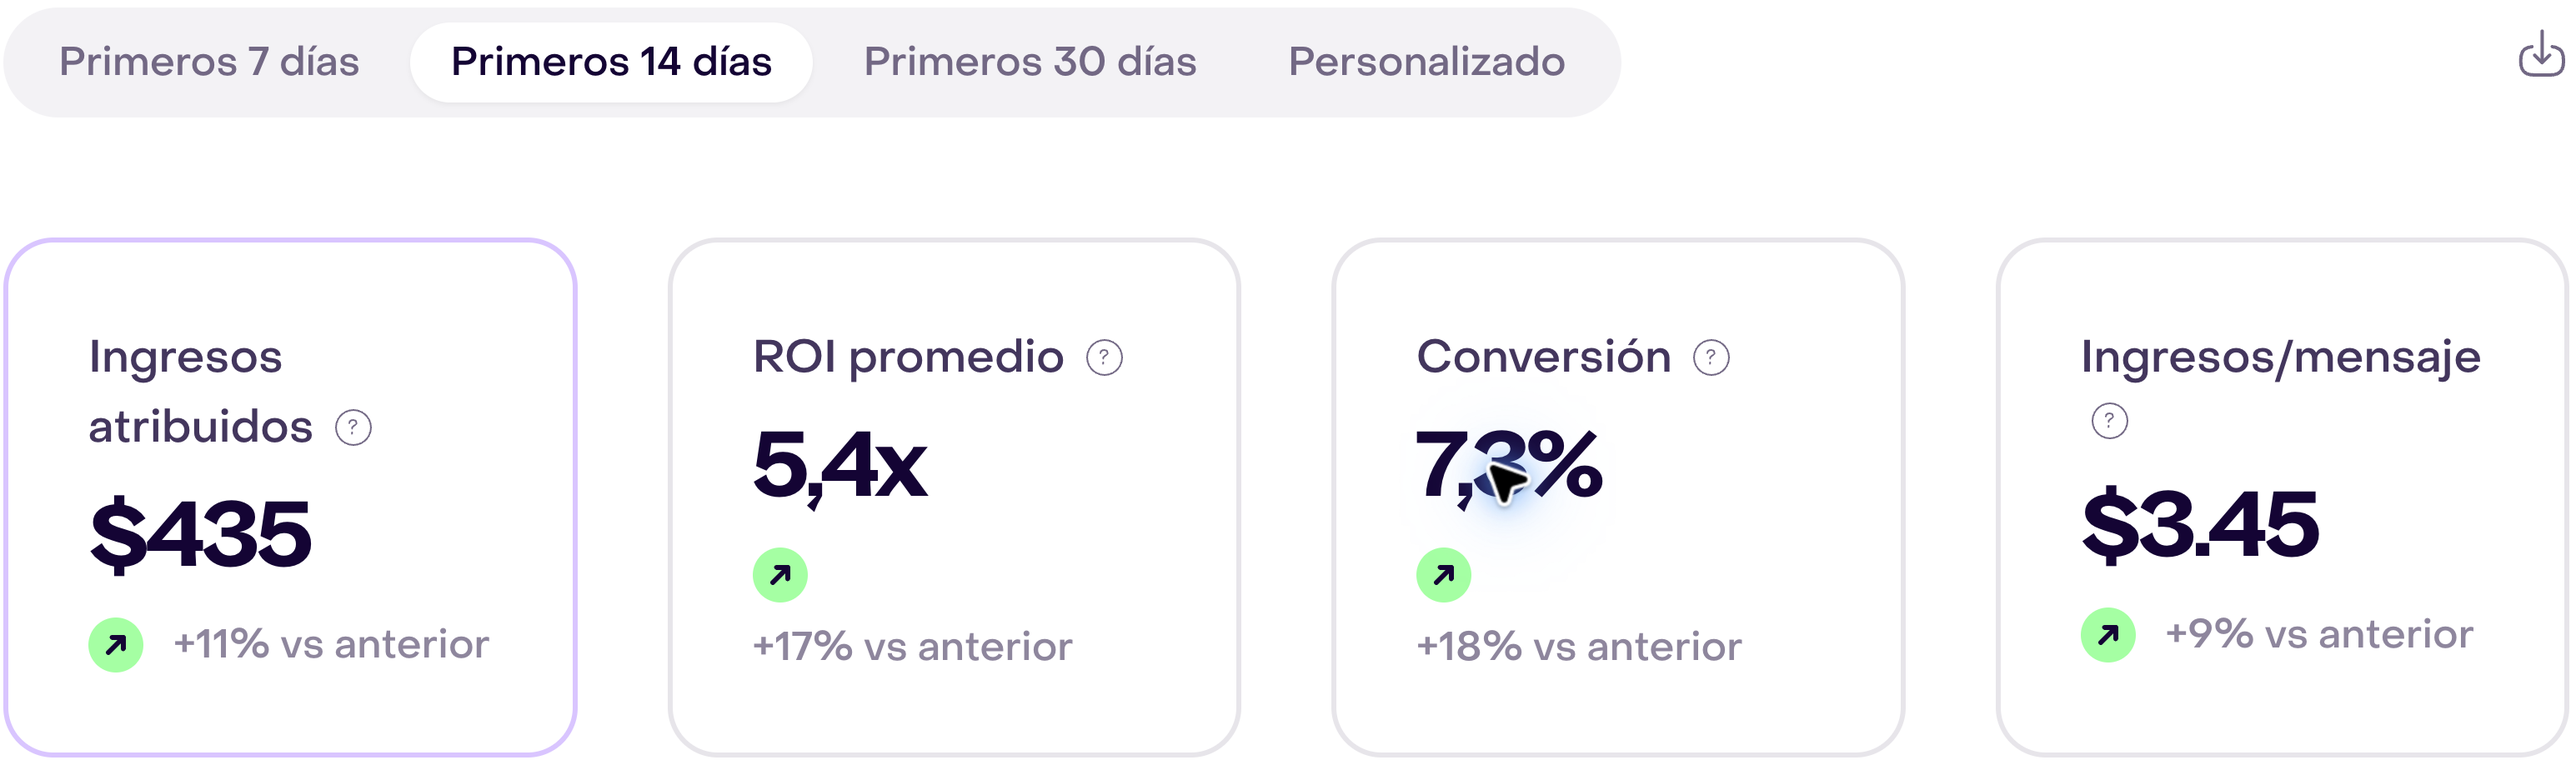
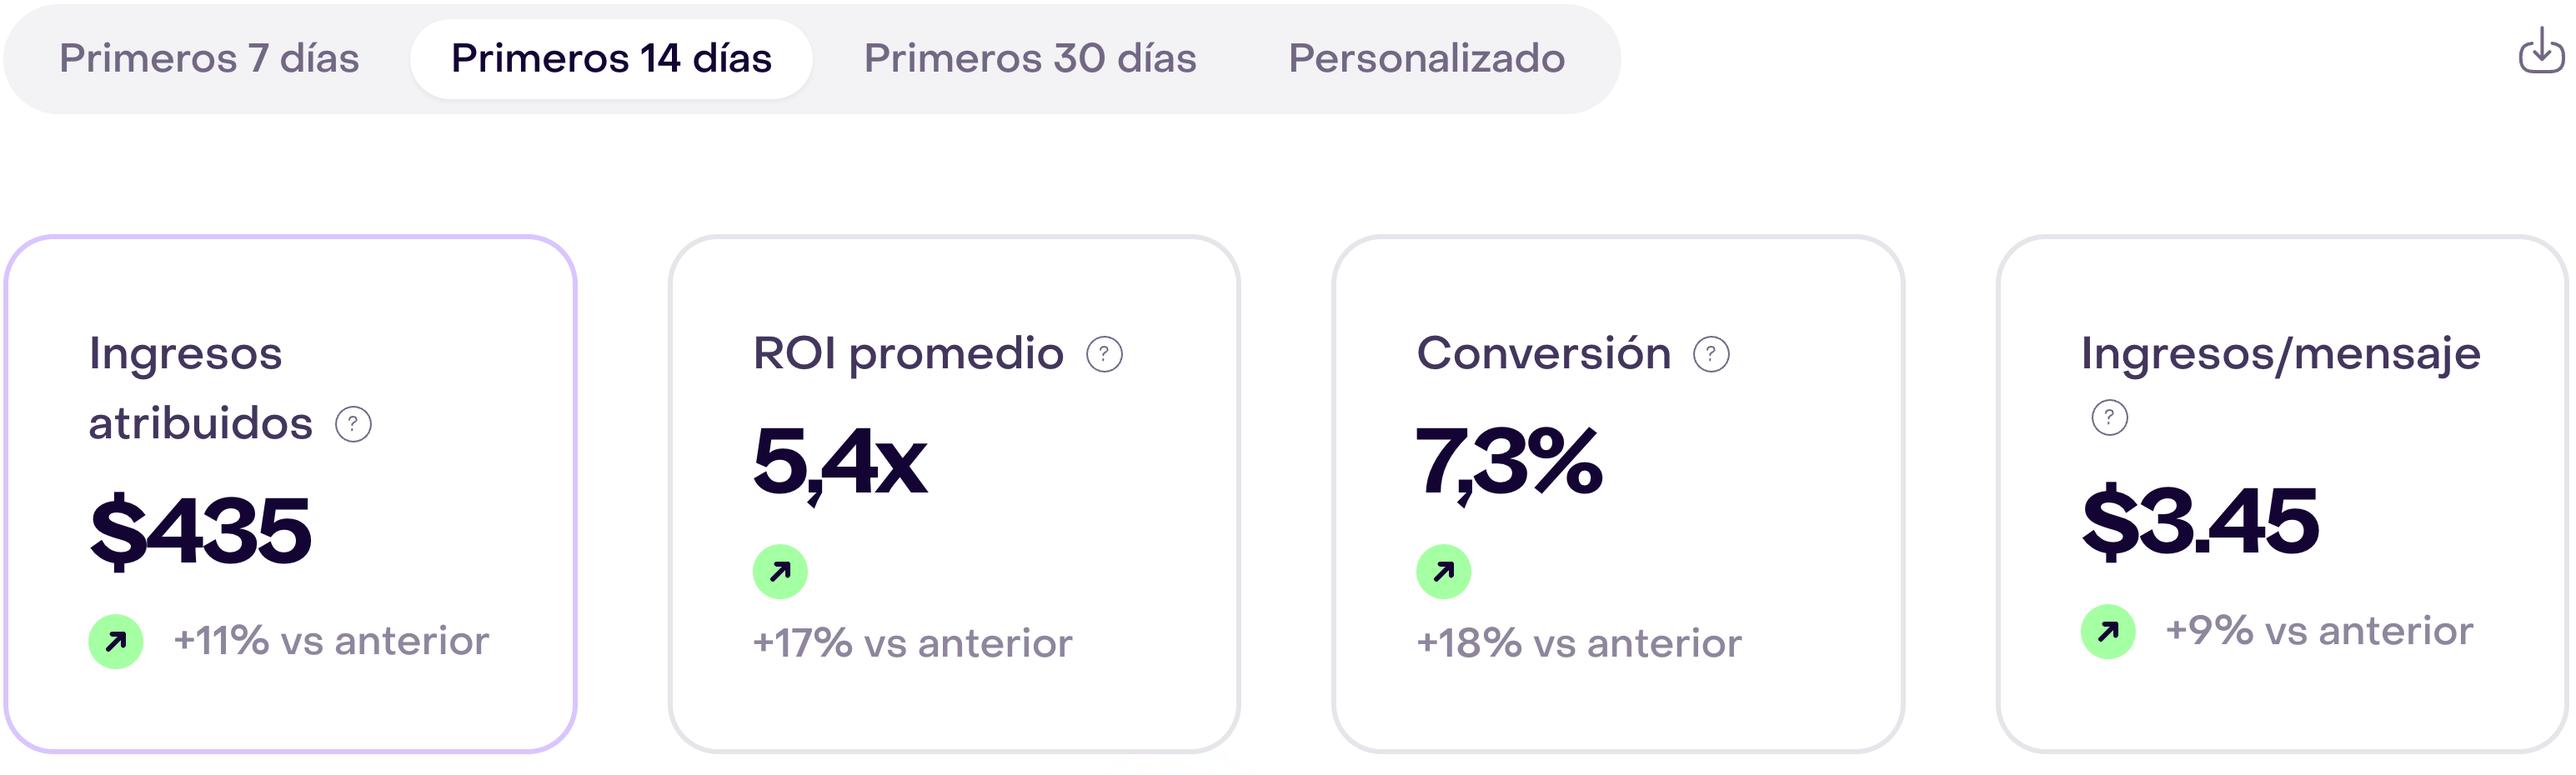
Remove pointer from campaign report screenshot

diff --git a/docs/editorial-work/capture-tools/hellotext_capture_editor.swift b/docs/editorial-work/capture-tools/hellotext_capture_editor.swift
@@ -21,7 +21,7 @@ enum CaptureError: Error, CustomStringConvertible {
 
 struct Options {
     var list = false
-    var hideCursor = false
+    var showCursor = false
     var windowID: UInt32?
     var title: String?
     var rect: CGRect?
@@ -41,7 +41,12 @@ func parseOptions() throws -> Options {
             continue
         }
         if arg == "--hide-cursor" {
-            result.hideCursor = true
+            result.showCursor = false
+            index += 1
+            continue
+        }
+        if arg == "--show-cursor" {
+            result.showCursor = true
             index += 1
             continue
         }
@@ -73,7 +78,7 @@ func parseOptions() throws -> Options {
     }
     if !result.list {
         guard result.windowID != nil, result.title != nil, result.rect != nil, result.output != nil else {
-            throw CaptureError.usage("Capture requires --window-id N --title EXACT_TITLE --rect x,y,w,h --output /absolute/path.png [--display-probe /absolute/path.png]")
+            throw CaptureError.usage("Capture requires --window-id N --title EXACT_TITLE --rect x,y,w,h --output /absolute/path.png [--display-probe /absolute/path.png] [--show-cursor]")
         }
     }
     return result
@@ -183,7 +188,7 @@ struct CaptureEditor {
         config.sourceRect = rect.offsetBy(dx: -display.frame.minX, dy: -display.frame.minY)
         config.width = pixelWidth
         config.height = pixelHeight
-        config.showsCursor = !options.hideCursor
+        config.showsCursor = options.showCursor
         config.includeChildWindows = false
         config.ignoreShadowsDisplay = true
         config.colorSpaceName = CGColorSpace.displayP3

diff --git a/docs/editorial-work/campaign-reporting.md b/docs/editorial-work/campaign-reporting.md
@@ -42,10 +42,20 @@ The local capture source is ready: an isolated PostgreSQL database named `hellot
 
 Automatic approval review initially rejected opening a dedicated Chrome capture window because the standing “no new windows” instruction could include that temporary window. The user explicitly approved a temporary window for Spanish and English capture. The resulting window showed only the isolated demonstration campaign report and was closed after capture. No real contacts, campaigns, or messages were changed or sent.
 
-Four exact-window ScreenCaptureKit crops were recorded as untouched native Display P3 PNGs with provenance JSON under `captures/campaign-reporting/` and copied byte for byte to `images/analytics-reporting-attribution/campaign-reporting/`. Desktop variants show the period selector and all four summary cards: Spanish 3090 × 930 pixels and English 3090 × 1050 pixels. Mobile variants show the selector, first card, and carousel arrow: 754 × 560 pixels in each language. All are native 2× captures. The helper's `--hide-cursor` option kept the pointer from obscuring values. Every crop was visually inspected for locale, legibility, demonstration values, and absence of contacts or private data. The source and static asset hashes match for each variant. The original captures were not resampled or color-profile converted.
+Four exact-window ScreenCaptureKit crops were recorded as untouched native Display P3 PNGs with provenance JSON under `captures/campaign-reporting/` and copied byte for byte to `images/analytics-reporting-attribution/campaign-reporting/`. Desktop variants show the period selector and all four summary cards: Spanish 3090 × 930 pixels and English 3090 × 1050 pixels. Mobile variants show the selector, first card, and carousel arrow: 754 × 560 pixels in each language. All are native 2× captures. The helper used `--hide-cursor`, but a browser automation pointer was later found over the Spanish desktop Conversion value; the system cursor setting did not suppress that overlay. Every crop was inspected for locale, legibility, demonstration values, and absence of contacts or private data. The source and static asset hashes match for each variant. The original captures were not resampled or color-profile converted.
 
 One unlinked `<picture>` figure was inserted immediately after the reporting-period instruction in each language. Its desktop image is used at 1280px; the mobile source is used at 390px. The HTML caption and alternative text are localized. At desktop width the 3090px source displayed at 608.8 CSS pixels; at mobile width the 754px source displayed at 316 CSS pixels. Both exceed the required 2× density. The figure contains no anchor, button, or focusable open control.
 
 `PATH="/Users/pel/.rbenv/shims:$PATH" BUNDLE_PATH=vendor/bundle yarn build` passed again, including the Jekyll language builds and `script/verify_security_headers.rb`. The four built/site image copies matched the source files byte for byte. The Spanish and English pages were visually reviewed in the in-app browser at 1280px desktop and 390px mobile widths. Each showed the intended locale-specific screenshot in the expected section with readable labels, and neither page had horizontal overflow. The local Spanish preview at `http://127.0.0.1:8765/es/reportes-de-campa%C3%B1a.html` returned HTTP 200; the English preview is `http://127.0.0.1:8765/campaign-reporting.html`.
 
 The temporary Rails, Vite, and Redis processes and Chrome window were closed after verification. The isolated PostgreSQL demo database remains local; the Help preview at port 8765 remains running for review. The verifying local commit is recorded in `progress.csv`. No push, merge, deployment, or public verification occurred.
+
+## Pointer correction (2026-09-26)
+
[1 lines of base64/hex data omitted]
+
+The shared editorial screenshot guide now defaults to no visible pointer. Its only exception is a deliberately enlarged pointer on a clickable button or link, with the tip on the target and its label readable. The native ScreenCaptureKit helper now hides the system cursor by default; the browser automation pointer must also be moved outside the exact crop, followed by visual inspection of the saved pixels. The legacy `--hide-cursor` option still works, and `--show-cursor` is explicit for the narrow exception. The shared rule was merged in editorial PR 2.
+
[1 lines of base64/hex data omitted]
+
+The Help build and security-header check passed. The rebuilt image copies and the local server response match the new source hash. In the local Spanish desktop page the corrected figure shows all four cards without a pointer; the Spanish and English articles select their locale-matched desktop and mobile sources at 1280px and 390px, with no linked image controls or horizontal overflow. The temporary demo Chrome window and isolated Rails, Vite, and Redis services were closed after capture; the Help preview at port 8765 remains available. This correction is verified locally here; PR, merge, and public verification are tracked separately.

diff --git a/docs/editorial-work/capture-tools/README.md b/docs/editorial-work/capture-tools/README.md
@@ -16,4 +16,4 @@ SWIFT_MODULE_CACHE_PATH=/private/tmp/hellotext-swift-cache \
 
 Run `--list` to identify the window ID, exact title and frame. Before a capture, inspect the target UI and calculate a rectangle containing only the relevant editor or menu. Invoke the helper with `--window-id`, `--title`, `--rect x,y,width,height`, `--output`, and, if display color-space metadata is unavailable, `--display-probe` pointing to a verified native 16 × 16 px Display P3 PNG of an empty 8 × 8 point screen corner. The probe is a local prerequisite and is never published. Recheck the PNG format, pixel size, ICC profile and visible content before using any output in an article.
 
-Add `--hide-cursor` when the pointer does not explain a control or would cover a value. The default retains the visible pointer for captures where it is useful.
+The helper hides the system cursor by default. Move any browser automation pointer outside the crop and inspect the saved PNG at its original size; an automation overlay can still appear when `showsCursor` is false. Use `--show-cursor` only when the screenshot intentionally highlights a clickable button or link with a visibly enlarged pointer whose tip sits on that target without covering its label. Record the target and pointer treatment in the capture provenance. The older `--hide-cursor` flag remains accepted for existing capture commands but is no longer needed.
